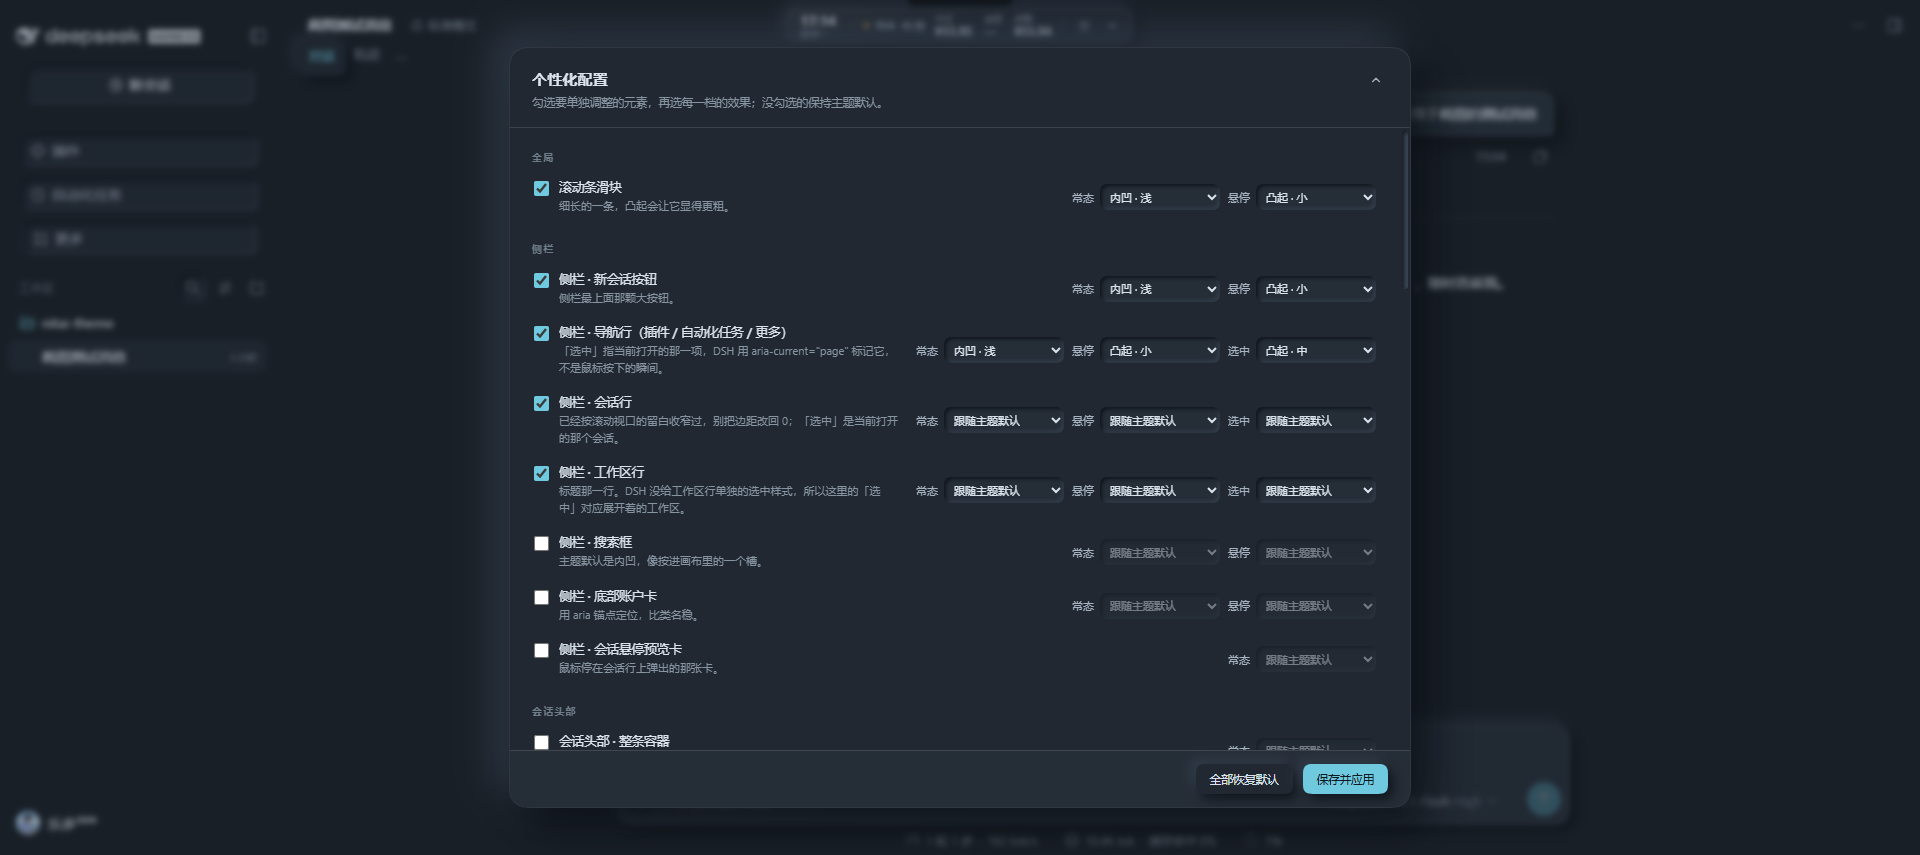
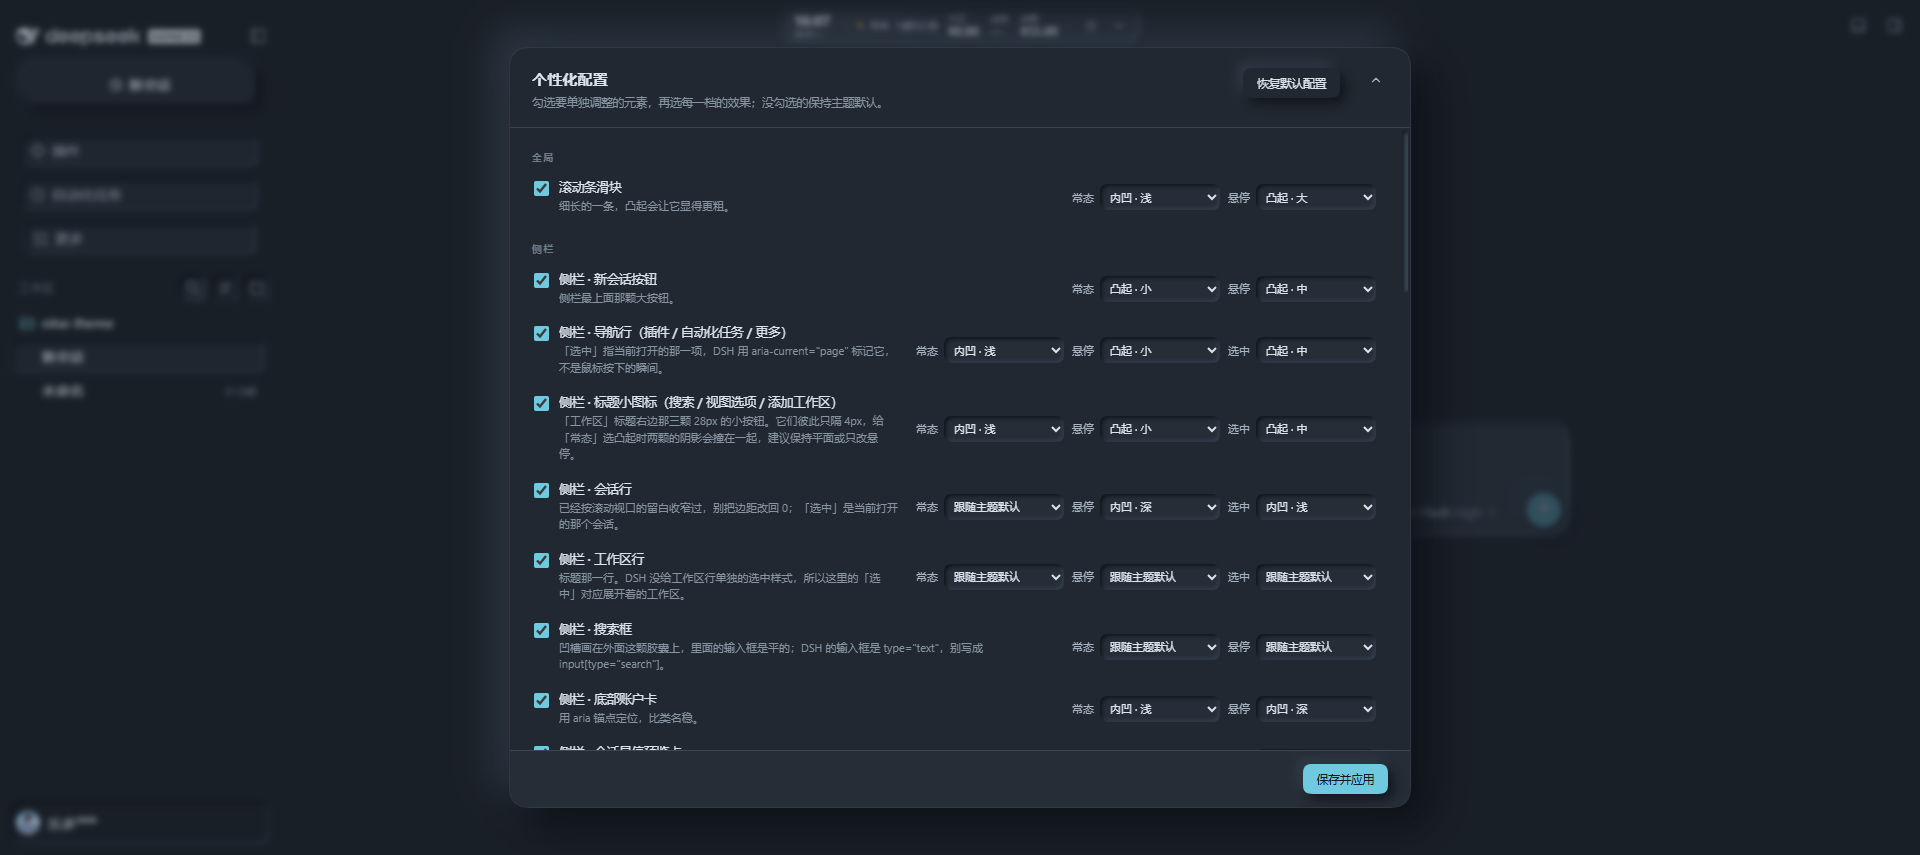
发版准备 0.5.0：补更新记录与默认配置文档，刷新演示截图

diff --git a/lib/index.js b/lib/index.js
@@ -38,7 +38,7 @@ import {
 const HERE = path.dirname(fileURLToPath(import.meta.url))
 const PREFIX = '/dsh-nitai-theme'
 const STYLE_ID = 'nitai-theme-css'
-const VERSION = '0.4.0'
+const VERSION = '0.5.0'
 
 const TEXT_HEADERS = {
   'Content-Type': 'text/plain; charset=utf-8',

diff --git a/docs/config-audit.md b/docs/config-audit.md
@@ -154,3 +154,14 @@ body:not(#nt-config-noop) [class*="iFrn8G_root"] { border-radius: 12px !importan
 结论：33 项在 `raised-md` / `inset-md` / `flat` 三档全部读到预期阴影，没有 `fail:`、没有 `bad-selector`。
 
 另外这一轮顺手修掉的两处：右栏「Git / 本轮文件」两个按钮在这一版 DSH 里根本没有任何样式（露的是浏览器原生按钮外观），主题改成纯文字标签并撤掉了单独的配置项；模型菜单顶部的搜索框被主题的通用输入框规则画上了底色、描边和焦点环，改成保持原生透明外观。
+
+## 八、默认配置与一键恢复（2026-11-17 补）
+
+- 默认值写在 `lib/surfaces.js` 的 `DEFAULT_STATES`，包成 `DEFAULT_CONFIG`；宿主 `readConfig()` 读不到配置文件时用它。
+- 验证方式：把隔离实例的 `config.json` 删掉，重新请求 `/dsh-nitai-theme/surfaces.json` 与 `/theme.css`。
+  - `surfaces.json` 返回 33 项，`nav-row` 为 `inset-sm / raised-sm / raised-md`、`composer` 为 `inset-sm / inset-md`，与预期一致。
+  - `theme.css` 末尾自动出现对应的覆盖规则，说明“没有配置文件”也会照默认值生效。
+- 一键恢复验证：先把 `nav-row` 常态改成 `raised-lg` 并 POST 保存（`theme.css` 随即出现对应规则），再点面板顶部「恢复默认配置」，宿主执行 `DELETE /dsh-nitai-theme/config.json`：
+  - 接口返回 `ok: true`，配置回到 33 项默认值；
+  - 面板下拉回到 `inset-sm / raised-sm / raised-md`，提示“已恢复主题默认配置，界面马上更新”；
+  - 隔离目录里的 `config.json` 已被删除。
